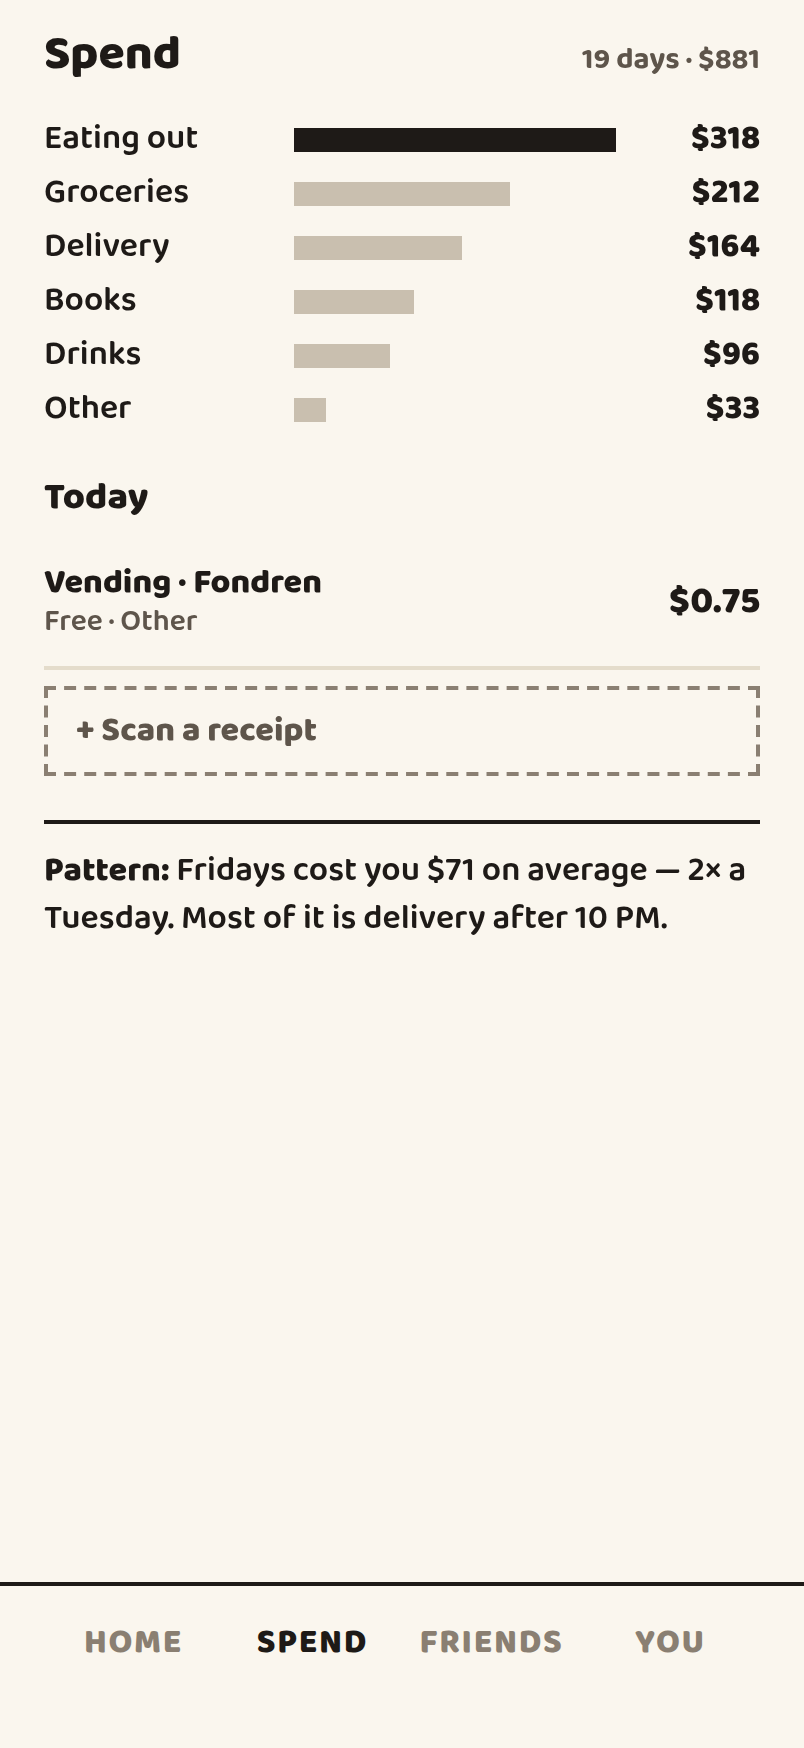
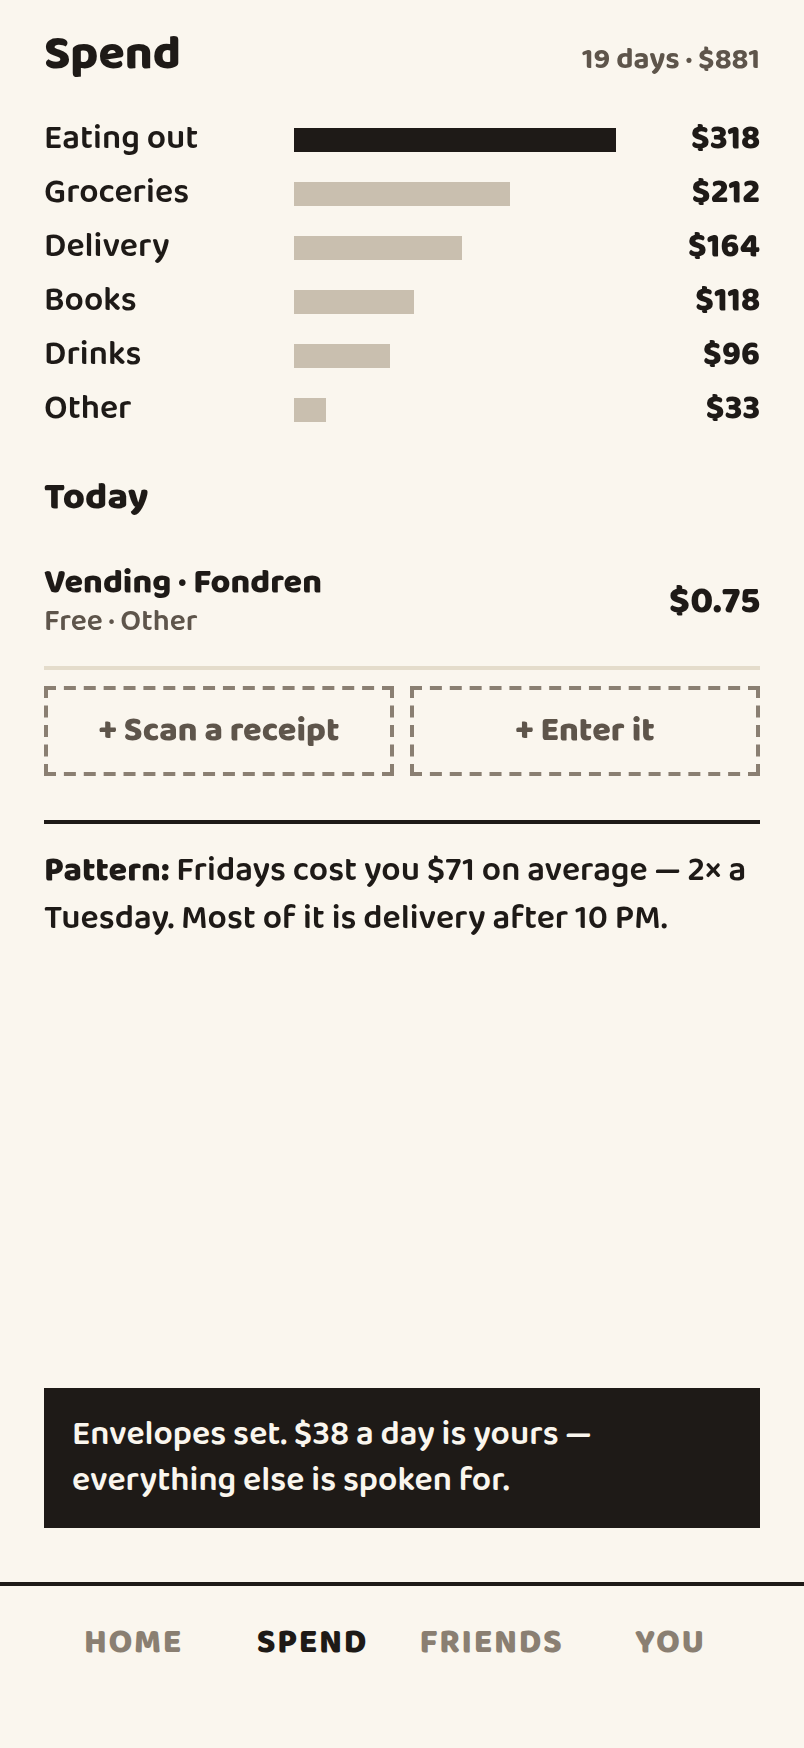
spend: offer manual entry next to the scanner
Spend only had "+ Scan a receipt", which quietly implies the app can't
take anything else — and most charges have no receipt to photograph: a
tap at the vending machine, a dinner split over Venmo, a card charge you
notice later.

Both ways in, side by side, on the screen you're already on when you
spot a missing charge. Manual entry existed but was only reachable from
Home's + menu and the scanner's own escape hatch, neither of which is
where you're looking when you're reading your spending.

Verified: both buttons render, no overflow at the new type scale, and
"+ Enter it" actually lands on the log screen.

Claude-Session: https://claude.ai/code/session_013rvdnc7B5ipQd2nQZYPPDK

diff --git a/mobile/app/spend.tsx b/mobile/app/spend.tsx
@@ -78,11 +78,27 @@ export default function SpendScreen() {
             </FadeIn>
           ))}
 
-          <DashedBox onPress={() => router.push('/scan')}>
-            <T w={800} size={14} color={colors.muted}>
-              + Scan a receipt
-            </T>
-          </DashedBox>
+          {/* Both ways in, side by side. This is the screen you're on when you
+              notice a charge is missing, and most charges have no receipt to
+              photograph — a tap at the vending machine, a dinner split over
+              Venmo. Offering only the scanner here quietly implies the app
+              can't take the rest. */}
+          <Row gap={8} align="stretch">
+            <Flexible>
+              <DashedBox onPress={() => router.push('/scan')}>
+                <T w={800} size={14} color={colors.muted} center>
+                  + Scan a receipt
+                </T>
+              </DashedBox>
+            </Flexible>
+            <Flexible>
+              <DashedBox onPress={() => router.push('/log')}>
+                <T w={800} size={14} color={colors.muted} center>
+                  + Enter it
+                </T>
+              </DashedBox>
+            </Flexible>
+          </Row>
         </View>
 
         <View
